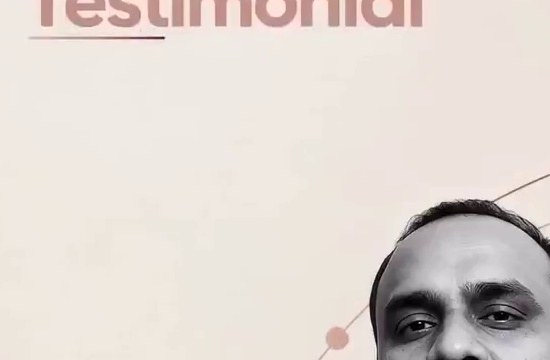
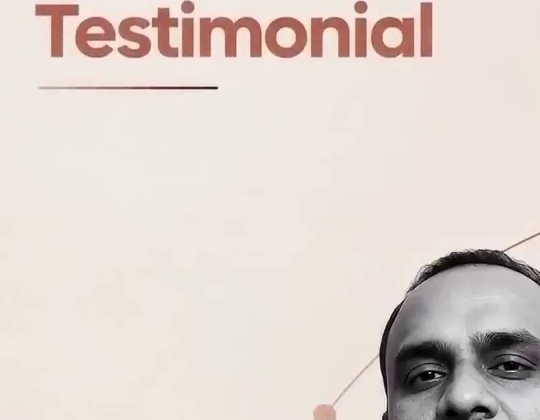
Enhance client testimonial cards: 250px desktop image height, centered faces, 18px rounded corners, 220px mobile height

diff --git a/src/styles/successStories.css b/src/styles/successStories.css
@@ -4509,12 +4509,12 @@
 .ss-cs-card {
   background: #FFF5ED;
   border: 1px solid #FFD6BA;
-  border-radius: 22px;
+  border-radius: 18px;
   padding: 16px;
   display: flex;
   flex-direction: column;
   height: 100%;
-  box-shadow: 0 4px 20px rgba(255, 116, 23, 0.05);
+  box-shadow: 0 4px 18px rgba(255, 116, 23, 0.05);
   transition: transform 0.28s cubic-bezier(0.2, 0.8, 0.2, 1), 
               box-shadow 0.28s cubic-bezier(0.2, 0.8, 0.2, 1), 
               border-color 0.28s ease;
@@ -4522,17 +4522,17 @@
 }
 
 .ss-cs-card:hover {
-  transform: translateY(-5px);
-  box-shadow: 0 12px 30px rgba(255, 116, 23, 0.12);
+  transform: translateY(-4px);
+  box-shadow: 0 10px 24px rgba(255, 116, 23, 0.12);
   border-color: #FF7417;
 }
 
-/* Image Section: Consistent ~210px Height with internal rounded frame */
+/* Image Section: 250px Height on Desktop with 14px rounded frame */
 .ss-cs-card-media {
   width: 100%;
-  height: 210px;
+  height: 250px;
   position: relative;
-  border-radius: 16px;
+  border-radius: 14px;
   overflow: hidden;
   background: #FFEAD9;
   flex-shrink: 0;
@@ -4553,15 +4553,15 @@
 }
 
 .ss-cs-card-img-raj {
-  object-position: center 20%;
+  object-position: center 25%;
 }
 
 .ss-cs-card-img-yoshita {
-  object-position: center 22%;
+  object-position: center 20%;
 }
 
 .ss-cs-card-img-pragnesh {
-  object-position: center 20%;
+  object-position: center 22%;
 }
 
 /* Industry Category Badge (Top-Left of photo) */
@@ -4819,7 +4819,7 @@
   }
 
   .ss-cs-card-media {
-    height: 200px;
+    height: 230px;
   }
 
   .ss-cs-stats-bar {
@@ -4879,7 +4879,7 @@
   }
 
   .ss-cs-card-media {
-    height: 210px;
+    height: 220px;
   }
 
   .ss-cs-stats-bar {
